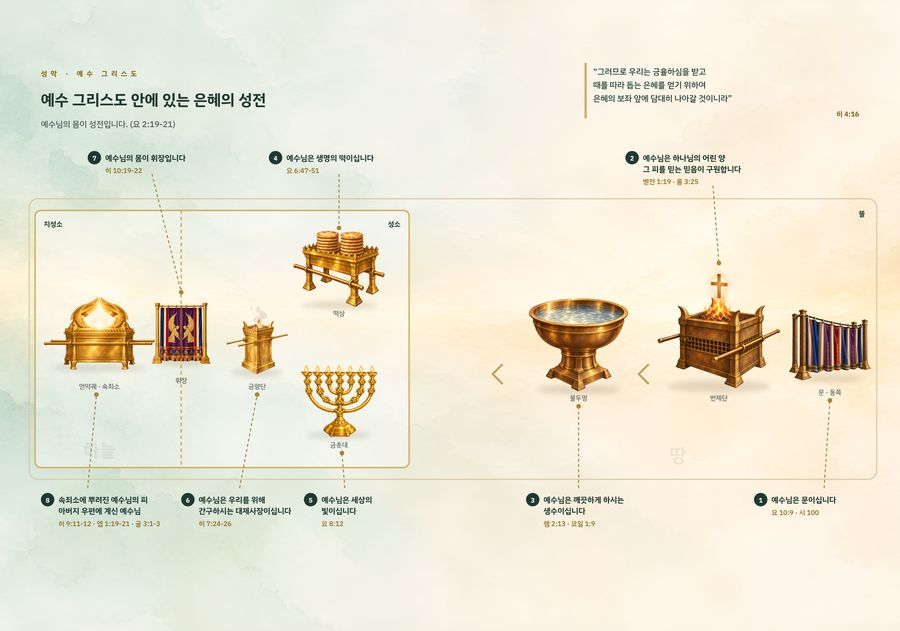
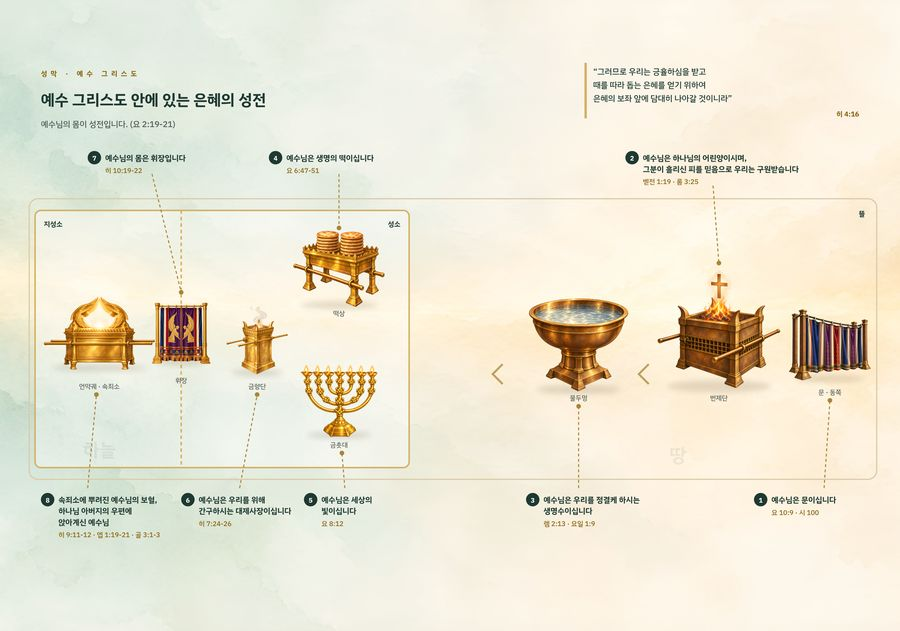
Add files via upload

Changed region(s): [[0.0622, 0.7829, 0.1867, 0.8732], [0.7156, 0.2409, 0.9022, 0.3011], [0.6222, 0.7829, 0.7156, 0.813]]

diff --git a/app.js b/app.js
@@ -2,7 +2,7 @@
 import * as B from "./backend.js";
 
 const $app = document.getElementById("app");
-const VERSION = "2.2.3";
+const VERSION = "2.3.0";
 const VOLS = ["1", "2", "3"];
 const VOL_NAME = { "1": "제1권", "2": "제2권", "3": "제3권 · 성벽기도" };
 const VOL_SHORT = { "1": "1권", "2": "2권", "3": "3권" };
@@ -640,7 +640,7 @@ function libStagesPage(vol, D) {
     ${weak.length ? `<div class="pg-sub">자주 틀리는 본문</div>${weak.map((w) =>
       `<a class="pg-weak" href="#/p/${w.vol}/${w.num}/${w.no}?m=hide"><b>${refHtml(w.ref)}</b><span class="wk-n">표시 ${w.total}곳</span></a>`).join("")}` : ""}
     <div class="pg-sub">함께 읽기</div>
-    <div class="pg-extras"><a href="#/x/${vol}/prayer">암송 기도문</a><a href="#/x/${vol}/slogans">개념 구호</a>${D.b.names ? `<a href="#/x/${vol}/names">하나님의 이름</a>` : ""}</div>`;
+    <div class="pg-extras"><a href="#/x/${vol}/prayer">암송 기도문</a><a href="#/x/${vol}/slogans">개념 구호</a>${D.b.names ? `<a href="#/x/${vol}/names">하나님의 이름</a>` : ""}${D.b.testimony ? `<a href="#/x/${vol}/testimony">${esc(D.b.testimony.title)}</a>` : ""}</div>`;
 }
 
 // 서재 머리줄 (책장 · 책 한 권 화면 같이 씀)
@@ -764,13 +764,13 @@ async function viewBookPage(vol, fresh) {
 const TAB_ITEMS = [
   // n, 열쇠, 이름, 자리, 예수님 말씀, 성경, 본문 소제목, 전경 그림 위 점(%) · 바깥 번호표 자리(px, 390×250 기준), 책자 기구 그림 자리(mm), 책자 전경 번호표(mm)
   { n: 1, key: "gate", name: "문", place: "뜰 · 동쪽", line: "예수님은 문이십니다", ref: "요 10:9 · 시 100", group: "문", sx: 84.64, sy: 74.21, lx: 360, ly: 196, r: [270, 99.84, 28, 24.32], b: [260.4, 132, 16] },
-  { n: 2, key: "altar", name: "번제단", place: "뜰", line: "예수님은 하나님의 어린 양, 그 피를 믿는 믿음이 구원합니다", ref: "벧전 1:19 · 롬 3:25", group: "번제단", sx: 74.22, sy: 59.08, lx: 360, ly: 120, r: [225, 85.21, 42, 41.58], b: [260.4, 110, 20] },
-  { n: 3, key: "laver", name: "물두멍", place: "뜰", line: "예수님은 깨끗하게 하시는 생수이십니다", ref: "렘 2:13 · 요일 1:9", group: "물두멍", sx: 57.62, sy: 56.64, lx: 238, ly: 16, r: [181, 96.09, 34, 31.81], b: [166.53, 42, 20] },
+  { n: 2, key: "altar", name: "번제단", place: "뜰", line: "예수님은 하나님의 어린양이시며, 그분이 흘리신 피를 믿음으로 우리는 구원받습니다", ref: "벧전 1:19 · 롬 3:25", group: "번제단", sx: 74.22, sy: 59.08, lx: 360, ly: 120, r: [225, 85.21, 42, 41.58], b: [260.4, 110, 20] },
+  { n: 3, key: "laver", name: "물두멍", place: "뜰", line: "예수님은 우리를 정결케 하시는 생명수이십니다", ref: "렘 2:13 · 요일 1:9", group: "물두멍", sx: 57.62, sy: 56.64, lx: 238, ly: 16, r: [181, 96.09, 34, 31.81], b: [166.53, 42, 20] },
   { n: 4, key: "table", name: "떡상", place: "성소", line: "예수님은 생명의 떡이십니다", ref: "요 6:47-51", group: "떡상", sx: 40.39, sy: 37.89, lx: 180, ly: 16, r: [100.36, 73, 31.27, 26], b: [135.55, 42, 16] },
   { n: 5, key: "lamp", name: "금촛대", place: "성소", line: "예수님은 세상의 빛이십니다", ref: "요 8:12", group: "금촛대", sx: 40.39, sy: 48.04, lx: 22, ly: 176, r: [102.88, 118.5, 26.24, 25], b: [42.65, 114, 20] },
   { n: 6, key: "incense", name: "금향단", place: "성소", line: "예수님은 우리를 위해 간구하시는 대제사장이십니다", ref: "히 7:24-26", group: "금향단", sx: 32.88, sy: 39.55, lx: 22, ly: 132, r: [77.5, 97.89, 21, 24.22], b: [42.65, 98, 20] },
-  { n: 7, key: "veil", name: "휘장", place: "성소와 지성소 사이", line: "예수님의 몸이 휘장입니다", ref: "히 10:19-22", group: "", sx: 28.12, sy: 29.30, lx: 122, ly: 16, r: [52, 97.51, 20, 20.99], b: [105.55, 42, 16] },
-  { n: 8, key: "ark", name: "언약궤 · 속죄소", place: "지성소", line: "속죄소에 뿌려진 예수님의 피, 아버지 우편에 계신 예수님", ref: "히 9:11-12 · 엡 1:19-21 · 골 3:1-3", group: "", sx: 19.53, sy: 32.71, lx: 22, ly: 88, r: [15, 95.54, 38, 24.92], b: [33.3, 82, 30] }
+  { n: 7, key: "veil", name: "휘장", place: "성소와 지성소 사이", line: "예수님의 몸은 휘장입니다", ref: "히 10:19-22", group: "", sx: 28.12, sy: 29.30, lx: 122, ly: 16, r: [52, 97.51, 20, 20.99], b: [105.55, 42, 16] },
+  { n: 8, key: "ark", name: "언약궤 · 속죄소", place: "지성소", line: "속죄소에 뿌려진 예수님의 보혈, 하나님 아버지의 우편에 앉아계신 예수님", ref: "히 9:11-12 · 엡 1:19-21 · 골 3:1-3", group: "", sx: 19.53, sy: 32.71, lx: 22, ly: 88, r: [15, 95.54, 38, 24.92], b: [33.3, 82, 30] }
 ];
 const TAB_PIC = {
   1: { name: "기구 그림", sub: "여덟 기구가 말하는 예수님", s: "tab/set1_s.jpg", m: "tab/set1_m.jpg", hr: "tab/set1.jpg", ar: 308 / 216 },
@@ -1122,10 +1122,13 @@ function stageList(vol, st, curNo) {
       <span class="nv">${p.verses.length}절</span>
       <span class="ck${on ? " on" : ""}" aria-label="${on ? "외움" : "아직"}">${on ? icon("check") : ""}</span></a>`;
   }
+  const bk = S.books[vol], testi = bk && bk.testimony && bk.stages && bk.stages[bk.stages.length - 1].num === st.num;
+  if ((st.lists || []).length || testi) out += `<span class="g-head">부록</span>`;
   (st.lists || []).forEach((l, k) => {
     out += `<span class="t-head">${esc(l.title)}</span><a class="srow" href="#/l/${vol}/${st.num}/${k + 1}">
       <span class="no"></span><span class="ref">회개 기도</span><span class="nv"></span><span></span></a>`;
   });
+  if (testi) out += `<a class="srow" href="#/x/${vol}/testimony"><span class="no"></span><span class="ref">${esc(bk.testimony.title)}</span><span class="nv"></span><span></span></a>`;
   return `<div class="slist">${out}</div>`;
 }
 
@@ -1195,10 +1198,15 @@ function headHtml(st, p) {
     <h1 class="ptitle">${refHtml(p.ref)}${p.note ? `<span class="pnote">${esc(p.note)}</span>` : ""}</h1>`;
 }
 
+// 본문 뒤 글: 선포(decl) · 안내(note) · 선포가 붙은 안내 상자(say) · 마침 표시(end)
+function afterBox(a) {
+  const t = a.lines.map(esc).join("<br>");
+  if (a.kind === "decl") return `<div class="decl ns">${t}</div>`;
+  if (a.kind === "end") return `<div class="endmark"><span>${t}</span></div>`;
+  return `<div class="pnote-box ns${a.kind === "say" ? " say" : ""}">${t}</div>`;
+}
 function afterHtml(p) {
-  return p.after.map((a) => a.kind === "decl"
-    ? `<div class="decl ns">${a.lines.map(esc).join("<br>")}</div>`
-    : `<div class="pnote-box ns">${a.lines.map(esc).join("<br>")}</div>`).join("");
+  return p.after.map(afterBox).join("");
 }
 
 function versesRead(p, weak, nt) {
@@ -1417,8 +1425,7 @@ const bkRun = (p) => `<div class="bk-run">${refHtml(p.ref)}<span> · 이어서</
 const bkLine = (p, vi, li, weak, nt, mode, v) => mode === "read" ? readLine(p, vi, li, weak, nt) : hideLine(p, weak, v, vi, li, p.id + "|");
 function afterItem(p, k, mode) {
   if (k === "c") return `<div class="closing">— ${refHtml(p.ref)}</div>`;
-  const a = p.after[k];
-  return a.kind === "decl" ? `<div class="decl ns">${a.lines.map(esc).join("<br>")}</div>` : `<div class="pnote-box ns">${a.lines.map(esc).join("<br>")}</div>`;
+  return afterBox(p.after[k]);
 }
 const afterKeys = (p, mode) => [...(mode === "read" ? ["c"] : []), ...p.after.map((a, i) => i)];
 const notesSig = (st) => st.passages.map((p) => { const n = NOTES[p.id]; return n ? Object.keys(n.memo).length + ":" + Object.values(n.memo).join("").length : 0; }).join(",") + "|" + (S.view.memoEdit || "");
@@ -1738,6 +1745,13 @@ async function viewExtra(vol, kind) {
     title = "암송 선포 개념 구호";
     inner = `<div class="plain-lines">${b.slogans.map((s, i) => `<div class="slogan"><span class="n">${i + 1}</span>
       <div><b>말씀암송은</b><br>${esc(s.text).replace(/\n/g, "<br>")} <small>(${esc(s.ref)})</small></div></div>`).join("")}</div>`;
+  } else if (kind === "testimony" && b.testimony) {
+    title = b.testimony.title;
+    const inl = (t) => esc(t).replace(/_([^_]+)_/g, "<u>$1</u>").replace(/\{v:(\d+)\}/g, '<sup class="qv">$1</sup>');
+    inner = `<div class="testi">${b.testimony.blocks.map((x) => x.t === "intro" ? `<div class="t-intro ns">${inl(x.text)}</div>`
+      : x.t === "h" ? `<h2 class="t-h">${inl(x.text)}</h2>`
+      : x.t === "q" ? `<blockquote class="t-q"><span class="t-qr">${esc(x.ref)}</span>${inl(x.text)}</blockquote>`
+      : `<p class="t-p">${inl(x.text)}</p>`).join("")}</div>`;
   } else if (kind === "names" && b.names) {
     title = "하나님의 이름";
     inner = `<div class="plain-lines">${b.names.lines.map((l) => `<span class="ln">${esc(l)}</span>`).join("")}</div>

diff --git a/app.css b/app.css
@@ -1285,3 +1285,17 @@ html.sky-quiet #sky .sh { opacity: 0; }
   .tw-pickh { padding-top: 10px; }
   .tw-name { font-size: 27px; } .tw-line { font-size: 19px; }
 }
+
+/* 2.3.0 — 선포가 붙은 안내 상자 · 성벽 기도 마침 · 성벽 기도 간증 */
+.pnote-box.say::before { content: '선포'; display: block; font-size: 11px; letter-spacing: .3em; font-weight: 700; color: var(--acc); margin-bottom: 3px; font-style: normal; }
+.endmark { margin-top: 22px; display: flex; align-items: center; gap: 10px; font-size: 14px; font-weight: 700; color: var(--pri); letter-spacing: .16em; }
+.endmark::before, .endmark::after { content: ''; flex: 1; border-top: 1px solid var(--goldline); }
+.endmark span::before { content: '— '; color: var(--goldline); }
+.testi { font-size: calc(var(--fs, 18px) * .92); line-height: 1.85; }
+.testi .t-intro { padding: 12px 14px; border-radius: 6px; background: var(--note); color: var(--noteink); border: 1px solid var(--line); margin: 4px 0 18px; font-size: .94em; }
+.testi .t-h { margin: 26px 0 10px; padding-left: 10px; border-left: 3px solid var(--goldline); font-size: 1.05em; font-weight: 700; color: var(--pri); line-height: 1.45; }
+.testi .t-p { margin: 0 0 12px; word-break: keep-all; }
+.testi .t-q { margin: 6px 0 14px; padding: 6px 0 6px 13px; border-left: 3px solid var(--acc); color: var(--pri); font-weight: 600; word-break: keep-all; }
+.testi .t-qr { display: block; font-size: 12px; font-weight: 700; color: var(--acc); letter-spacing: .04em; margin-bottom: 2px; }
+.testi .qv { font-size: 10px; font-weight: 700; color: var(--acc); margin: 0 2px 0 3px; }
+.testi .t-q u { text-decoration-color: var(--goldline); text-underline-offset: 3px; }

diff --git a/sw.js b/sw.js
@@ -1,6 +1,6 @@
 // 앱 화면 파일만 기기에 보관 (본문은 로그인 후 Firestore에서 받아 기기에 보관)
 // 앱 파일을 고쳐 올릴 때마다 아래 이름의 숫자를 하나 올려 주세요.
-const CACHE = "amsong-shell-v18";
+const CACHE = "amsong-shell-v19";
 const SHELL = ["./", "index.html", "app.css", "app.js", "backend.js", "firebase-config.js", "manifest.webmanifest",
   "icons/icon-192.png", "icons/icon-512.png", "icons/icon-180.png",
   "icons/icon-maskable-192.png", "icons/icon-maskable-512.png", "icons/favicon-32.png", "icons/crest.png",
